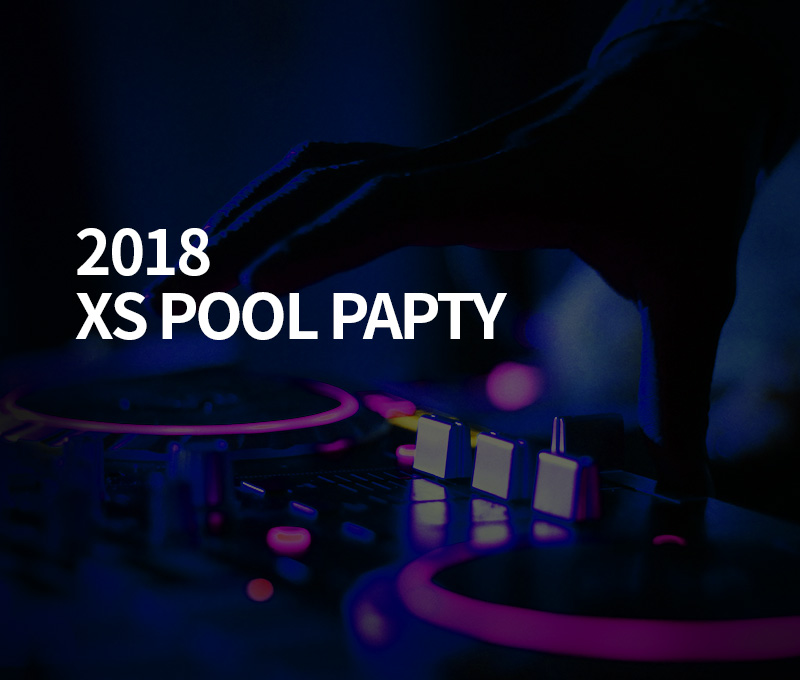
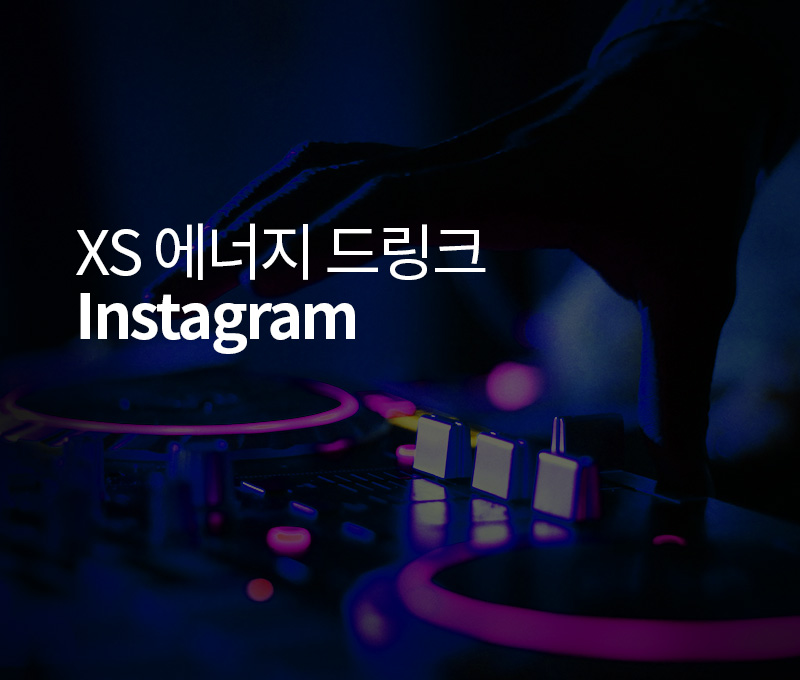
XS에너지 홈

Changed region(s): [[0.0938, 0.3088, 0.6562, 0.525]]

diff --git a/_ui/responsive/html/brand/B20300.html b/_ui/responsive/html/brand/B20300.html
@@ -40,16 +40,15 @@ $(function() {
 			colmn.css('margin-top',-colmnHeight+'px');
 		});
 		
-	}else{
-		$(window).resize(function() {
-			// 창 크기 바뀌면 리로딩.
-			 if (self.name != 'reload') {
-		         self.name = 'reload';
-		         self.location.reload(true);
-		     }
-		     else self.name = '';
-		});
 	}
+	$(window).resize(function() {
+		// 창 크기 바뀌면 리로딩.
+		 if (self.name != 'reload') {
+	         self.name = 'reload';
+	         self.location.reload(true);
+	     }
+	     else self.name = '';
+	});
 });
 </script>
 </head>
@@ -113,104 +112,101 @@ $(function() {
 		<!-- ## 템플릿 B-type -->
 		<div class="brand xsenergy" id="contents"><!-- 본문바로가기 위치 이동 -->
 
-				<!-- ## 컨텐츠 영역 -->		
-				<div class="main-container amway-theme">
-					<ul class="xsenergy_mainlist">
-						<li class="wide1">
-							<div class="view-img"><img src="/_ui/responsive/theme-blue/images/akl_brand/xs_energy/img_main01.jpg" alt="" /></div>
-							<div class="txt-wrap">
-								<span>XS 니온 블라스트로 <br>에너지 BURN!</span>
-							</div>
-						</li>
-						<li>
-							<div class="view-img"><img src="/_ui/responsive/theme-blue/images/akl_brand/xs_energy/img_main02.jpg" alt="" /></div>
-							<div class="txt-wrap">
-								<em>MULTIMEDIA</em><span>[XS Energy Drink]<br>XS 망고파인애플구아바 &lt;택시편&gt;</span>
-							</div>
-							<a class="video-btn" href="#none" onclick="layerPopOver(this,'.B20300_pop1');">
-								<img class="video-preview__play" src="/_ui/responsive/theme-blue/images/play_button.png" alt="동영상 재생">
-							</a>
-						</li>
-						<li>
-							<div class="view-img"><img src="/_ui/responsive/theme-blue/images/akl_brand/xs_energy/img_main03.jpg" alt="" /></div>
-							<div class="txt-wrap">
-								<em>MULTIMEDIA</em><span>[XS Energy Drink]<br>XS 망고파인애플구아바 &lt;노래방편&gt;</span>
-							</div>
-							<a class="video-btn" href="#none" onclick="layerPopOver(this,'.B20300_pop2');">
-								<img class="video-preview__play" src="/_ui/responsive/theme-blue/images/play_button.png" alt="동영상 재생">
-							</a>
-						</li>
-						<li>
-							<div class="view-img"><img src="/_ui/responsive/theme-blue/images/akl_brand/xs_energy/img_main04.jpg" alt="" /></div>
-							<div class="txt-wrap">
-								<em>MULTIMEDIA</em><span>[XS Energy Drink]<br>2016 XS Night Run Teaser Film</span>
-							</div>
-							<a class="video-btn" href="#none" onclick="layerPopOver(this,'.B20300_pop3');">
-								<img class="video-preview__play" src="/_ui/responsive/theme-blue/images/play_button.png" alt="동영상 재생">
-							</a>
-						</li>
-						<li>
-							<div class="view-img"><img src="/_ui/responsive/theme-blue/images/akl_brand/xs_energy/img_main05.jpg" alt="" /></div>
-							<div class="txt-wrap">
-								<em>MULTIMEDIA</em><span>[XS Energy Drink]<br>2015 XS-mas 하이라이트 영상</span>
-							</div>
-							<a class="video-btn" href="#none" onclick="layerPopOver(this,'.B20300_pop4');">
-								<img class="video-preview__play" src="/_ui/responsive/theme-blue/images/play_button.png" alt="동영상 재생">
-							</a>
-						</li>
-						<li>
-							<div class="view-img"><img src="/_ui/responsive/theme-blue/images/akl_brand/xs_energy/img_main06.jpg" alt="" /></div>
-							<div class="txt-wrap">
-								<em>MULTIMEDIA</em><span>[XS Energy Drink]<br>5K Night Run 하이라이트 영상</span>
-							</div>
-							<a class="video-btn" href="#none" onclick="layerPopOver(this,'.B20300_pop5');">
-								<img class="video-preview__play" src="/_ui/responsive/theme-blue/images/play_button.png" alt="동영상 재생">
-							</a>
-						</li>
-						<li>
-							<div class="view-img"><img src="/_ui/responsive/theme-blue/images/akl_brand/xs_energy/img_main07.jpg" alt="" /></div>
-							<div class="txt-wrap">
-								<span>XS Amway Korea<br>이번 여름, 자신있어?</span>
-							</div>
-							<a class="sns-link" target="_blank" href="https://www.facebook.com/xsakl/videos/1722056397915266/">
-								<span class="arr1">Facebook 바로가기</span>
-							</a>
-						</li>
-						<li class="wide2">
-							<div class="view-img"><img src="/_ui/responsive/theme-blue/images/akl_brand/xs_energy/img_main08.jpg" alt="" /></div>
-							<div class="txt-wrap">
-								<em>XS AmwayKorea Facebook</em>
-								<span>2018<br>XS POOL PAPTY</span>
-								<span class="hashtag">베스트 인증샷 이벤트<br>#2018XS풀파티<br>#XS풀파티</span>
-							</div>
-						</li>
-						<li>
-							<div class="view-img"><img src="/_ui/responsive/theme-blue/images/akl_brand/xs_energy/img_main09.jpg" alt="" /></div>
-							<div class="txt-wrap">
-								<span>XS Amway Korea<br>2018 XS 풀파티 D-10</span>
-							</div>
-							<a class="sns-link" target="_blank" href="https://www.facebook.com/xsakl/videos/1729628500491389/">
-								<span class="arr1">Facebook 바로가기</span>
-							</a>
-						</li>
-						<li>
-							<div class="view-img"><img src="/_ui/responsive/theme-blue/images/akl_brand/xs_energy/img_main10.jpg" alt="" /></div>
-							<div class="txt-wrap">
-								<em>XS에너지드링크 Instagram</em>
-							</div>
-							<a class="sns-link" target="_blank" href="#">
-								<span class="arr1">Instagram 바로가기</span>
-							</a>
-						</li>
-						<li class="wide3">
-							<div class="view-img"><img src="/_ui/responsive/theme-blue/images/akl_brand/xs_energy/img_main11.jpg" alt="" /></div>
-						</li>
-					</ul>
-				</div>
-				<!-- //## 컨텐츠 영역 -->
-			
+			<div class="main-container amway-theme">
+				<ul class="xsenergy_mainlist">
+					<li class="wide1">
+						<div class="view-img"><img src="/_ui/responsive/theme-blue/images/akl_brand/xs_energy/img_main01.jpg" alt="" /></div>
+						<div class="txt-wrap">
+							<span>XS 니온 블라스트로 <br class="mob">에너지 BURN!</span>
+						</div>
+						<div class="link-btn"><a href="#" class="bt-akl-blue">자세히 보기</a></div>
+					</li>
+					<li>
+						<div class="view-img"><img src="/_ui/responsive/theme-blue/images/akl_brand/xs_energy/img_main02.jpg" alt="" /></div>
+						<div class="txt-wrap">
+							<em>MULTIMEDIA</em><span>[XS Energy Drink]<br>XS 망고파인애플구아바 &lt;택시편&gt;</span>
+						</div>
+						<a class="video-btn" href="#none" onclick="layerPopOver(this,'.B20300_pop1');">
+							<img class="video-preview__play" src="/_ui/responsive/theme-blue/images/play_button.png" alt="동영상 재생">
+						</a>
+					</li>
+					<li>
+						<div class="view-img"><img src="/_ui/responsive/theme-blue/images/akl_brand/xs_energy/img_main03.jpg" alt="" /></div>
+						<div class="txt-wrap">
+							<em>MULTIMEDIA</em><span>[XS Energy Drink]<br>XS 망고파인애플구아바 &lt;노래방편&gt;</span>
+						</div>
+						<a class="video-btn" href="#none" onclick="layerPopOver(this,'.B20300_pop2');">
+							<img class="video-preview__play" src="/_ui/responsive/theme-blue/images/play_button.png" alt="동영상 재생">
+						</a>
+					</li>
+					<li>
+						<div class="view-img"><img src="/_ui/responsive/theme-blue/images/akl_brand/xs_energy/img_main04.jpg" alt="" /></div>
+						<div class="txt-wrap">
+							<em>MULTIMEDIA</em><span>[XS Energy Drink]<br>2016 XS Night Run Teaser Film</span>
+						</div>
+						<a class="video-btn" href="#none" onclick="layerPopOver(this,'.B20300_pop3');">
+							<img class="video-preview__play" src="/_ui/responsive/theme-blue/images/play_button.png" alt="동영상 재생">
+						</a>
+					</li>
+					<li>
+						<div class="view-img"><img src="/_ui/responsive/theme-blue/images/akl_brand/xs_energy/img_main05.jpg" alt="" /></div>
+						<div class="txt-wrap">
+							<em>MULTIMEDIA</em><span>[XS Energy Drink]<br>2015 XS-mas 하이라이트 영상</span>
+						</div>
+						<a class="video-btn" href="#none" onclick="layerPopOver(this,'.B20300_pop4');">
+							<img class="video-preview__play" src="/_ui/responsive/theme-blue/images/play_button.png" alt="동영상 재생">
+						</a>
+					</li>
+					<li>
+						<div class="view-img"><img src="/_ui/responsive/theme-blue/images/akl_brand/xs_energy/img_main06.jpg" alt="" /></div>
+						<div class="txt-wrap">
+							<em>MULTIMEDIA</em><span>[XS Energy Drink]<br>5K Night Run 하이라이트 영상</span>
+						</div>
+						<a class="video-btn" href="#none" onclick="layerPopOver(this,'.B20300_pop5');">
+							<img class="video-preview__play" src="/_ui/responsive/theme-blue/images/play_button.png" alt="동영상 재생">
+						</a>
+					</li>
+					<li>
+						<div class="view-img"><img src="/_ui/responsive/theme-blue/images/akl_brand/xs_energy/img_main07.jpg" alt="" /></div>
+						<div class="txt-wrap">
+							<span>XS Amway Korea<br>이번 여름, 자신있어?</span>
+						</div>
+						<a class="sns-btn" target="_blank" href="https://www.facebook.com/xsakl/videos/1722056397915266/">
+							<span class="arr1">Facebook 바로가기</span>
+						</a>
+					</li>
+					<li class="wide2">
+						<div class="view-img"><img src="/_ui/responsive/theme-blue/images/akl_brand/xs_energy/img_main08.jpg" alt="" /></div>
+						<div class="txt-wrap">
+							<em>XS에너지드링크 Instagram</em>
+							<span class="hashtag">베스트 인증샷 이벤트<br>#2018XS풀파티<br>#XS풀파티</span>
+						</div>
+					</li>
+					<li>
+						<div class="view-img"><img src="/_ui/responsive/theme-blue/images/akl_brand/xs_energy/img_main09.jpg" alt="" /></div>
+						<div class="txt-wrap">
+							<span>XS Amway Korea<br>2018 XS 풀파티 D-10</span>
+						</div>
+						<a class="sns-btn" target="_blank" href="https://www.facebook.com/xsakl/videos/1729628500491389/">
+							<span class="arr1">Facebook 바로가기</span>
+						</a>
+					</li>
+					<li>
+						<div class="view-img"><img src="/_ui/responsive/theme-blue/images/akl_brand/xs_energy/img_main10.jpg" alt="" /></div>
+						<div class="txt-wrap">
+							<em>XS에너지드링크 Facebook</em>
+						</div>
+						<a class="sns-btn" target="_blank" href="#">
+							<span class="arr1">Facebook 바로가기</span>
+						</a>
+					</li>
+					<li class="wide3">
+						<div class="view-img"><img src="/_ui/responsive/theme-blue/images/akl_brand/xs_energy/img_main11.jpg" alt="" /></div>
+					</li>
+				</ul>
+			</div>
+			<!-- //## 컨텐츠 영역 -->
 		</div>
-		<!-- //## 템플릿 B-type -->
 
 		<div id="quick"></div>
 		<div id="footer"></div>

diff --git a/_ui/responsive/theme-blue/css/akl-brand.css b/_ui/responsive/theme-blue/css/akl-brand.css
@@ -438,13 +438,17 @@ Editor : HYEWON HWANG
 .xsenergy_mainlist li.wide1 {width:66.65%;}
 .xsenergy_mainlist li.wide2, .xsenergy_mainlist li.wide3{width:66.67%;}
 .xsenergy_mainlist li img {display:block;width:100%;height:auto;}
-.xsenergy_mainlist .txt-wrap {position:absolute;top:25px;left:30px;line-height:1.5;}
-.xsenergy_mainlist .txt-wrap span {display:block;font-size:16px;color:#fff;}
-.xsenergy_mainlist .txt-wrap em {display:block;color:#fff;opacity:0.5;}
+.xsenergy_mainlist .txt-wrap {position:absolute;top:0;left:0;padding:25px 0 0 30px;width:100%;height:100%;line-height:1.5;font-size:16px;color:#fff;}
+.xsenergy_mainlist .txt-wrap em {display:block;color:#fff;opacity:0.5;letter-spacing:0;}
 .xsenergy_mainlist li > a {position:absolute;top:0;width:100%;height:100%;display:block;color:#fff;}
 .xsenergy_mainlist li > a:hover {color:#fff;}
 .xsenergy_mainlist .video-btn img {position:absolute;top:50%;left:50%;margin:-20px 0 0 -40px;height:80px;width:80px;}
-.xsenergy_mainlist .sns-link span {position:absolute;bottom:25px;left:30px;}
+.xsenergy_mainlist .sns-btn span {position:absolute;bottom:25px;left:30px;text-transform:uppercase;}
+.xsenergy_mainlist li.wide1 .txt-wrap {top:40%;left:0;padding-left:10%;font-size:22px;}
+.xsenergy_mainlist .link-btn {position:absolute;top:54%;left:0;padding-left:10%;}
+.xsenergy_mainlist .link-btn .bt-akl-blue {height:50px;font-size:16px;}
+.xsenergy_mainlist li.wide2 .txt-wrap .hashtag {position:absolute;top:60%;left:10%;font-size:26px;}
+
 @media (max-width: 1024px){
 	.xsenergy_mainlist li {width:50%;}
 	.xsenergy_mainlist li[class*='wide']{width:100%;margin:0 !important;}
@@ -454,6 +458,10 @@ Editor : HYEWON HWANG
 }
 @media (max-width: 630px){
 	.xsenergy_mainlist li {width:100% !important;}
+	.xsenergy_mainlist li.wide1 .txt-wrap {font-size:16px;}
+	.xsenergy_mainlist li.wide2 .txt-wrap .hashtag {font-size:18px;}
+	.xsenergy_mainlist .link-btn {top:58%;}
+	.xsenergy_mainlist .link-btn .bt-akl-blue {font-size:14px;height:40px;line-height:1.6;}
 }
 
 

diff --git a/_ui/responsive/html/brand/B10301.html b/_ui/responsive/html/brand/B10301.html
@@ -180,13 +180,6 @@
 					<p class="mgt15">한국암웨이는 지역사회의 요청이 있을 때 한국암웨이 제품에 한해 물품 및 서비스를 지원합니다.<br>
 					한국암웨이에 지원을 요청하기 위해서는 한 장 정도의 프로포절과 기관에서 준비하신 자료(비디오, 리포트, 인쇄물 등)를 함께 보내주시면 후원 담당자의 검토를 걸쳐 지원 여부를 알려드립니다.
 					</p> 
-					<ul class="list-type1">
-						<li>건강과 복지</li>
-						<li>교육</li>
-						<li>문화예술</li>
-						<li>기타 필요한 부분 </li>
-					</ul>
-					<p class="mgt15">한국암웨이에 지원을 요청하기 위해서는 한 장 정도의 프로포절과 기관에서 준비하신 자료(비디오, 리포트, 인쇄물 등)를 함께 보내주시면 사회공헌팀의 검토를 걸쳐 지원 여부를 알려드립니다.</p>
 					<div class="img-bnr">
 						<img src="/_ui/responsive/theme-blue/images/akl_brand/about/img_bnr_csr02.jpg" alt="" class="pc"/>
 						<img src="/_ui/responsive/theme-blue/images/akl_brand/about/img_bnr_csr_mob02.jpg" alt="" class="mob"/>
